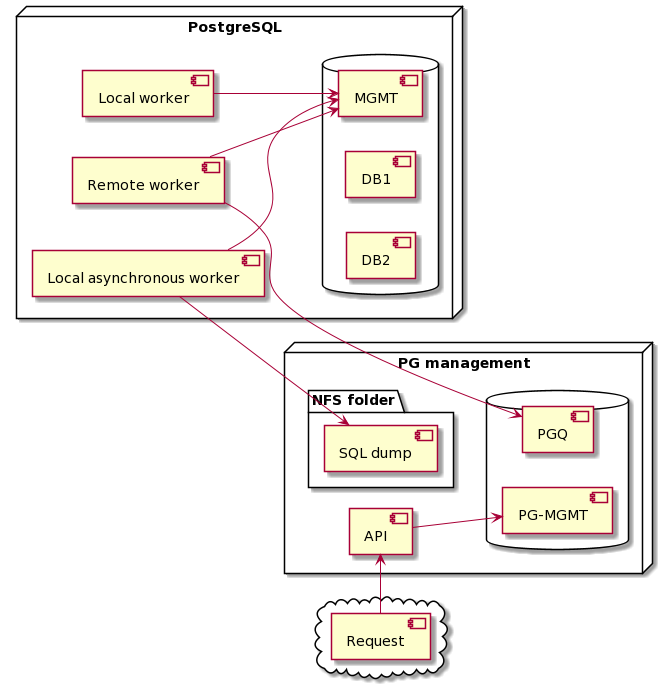
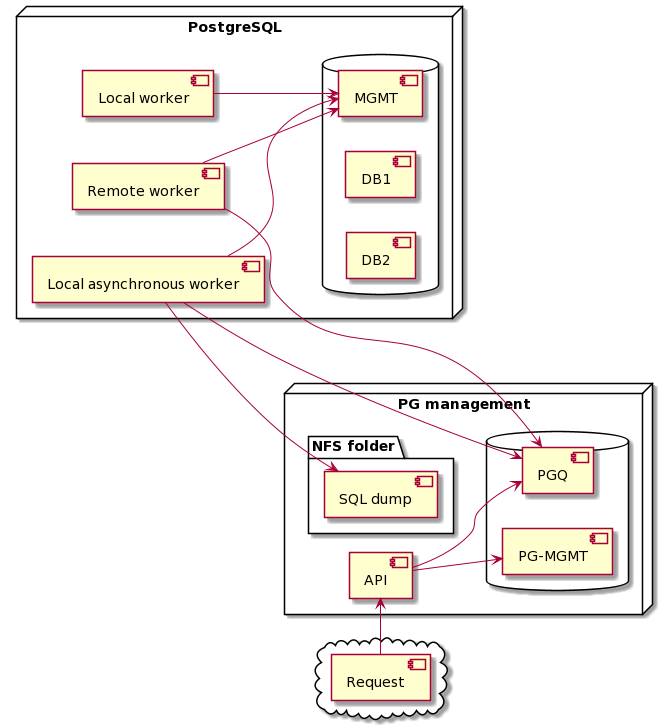
Overview

Changed region(s): [[0.0, 0.0612, 0.988, 1.0], [0.0299, 0.0, 0.6886, 0.0612], [0.7186, 0.6735, 0.7485, 0.7041]]

diff --git a/README.md b/README.md
@@ -1,6 +1,19 @@
 #Labaz
 
 ##Description
-Scripts kit for PostgreSQL and MySQL servers in dev environment.
+Python scripts kit for PostgreSQL and MySQL servers in a development environment.
 
 ![Scheme][scheme.png]
+
+##How it works
+`API` is REST API. Available operations:
+* creation
+* deletion
+* backup
+* restoring
+database in PostgreSQL or MySQL.
+`API` changes data in `pg-mgmt` database and creates a task in the PGQ queue.
+`Remote worker` reads the PGQ queue and inserts tasks into the `mgmt` table.
+`Local worker` chooses tasks for creation and deletion databases and implements those tasks.
+`Local asynchronous worker` chooses tasks for backup and restore and implements those tasks.
+`NFS folder` stores SQL dumps. Downloading and uploading SQL dump files goes through the API.
